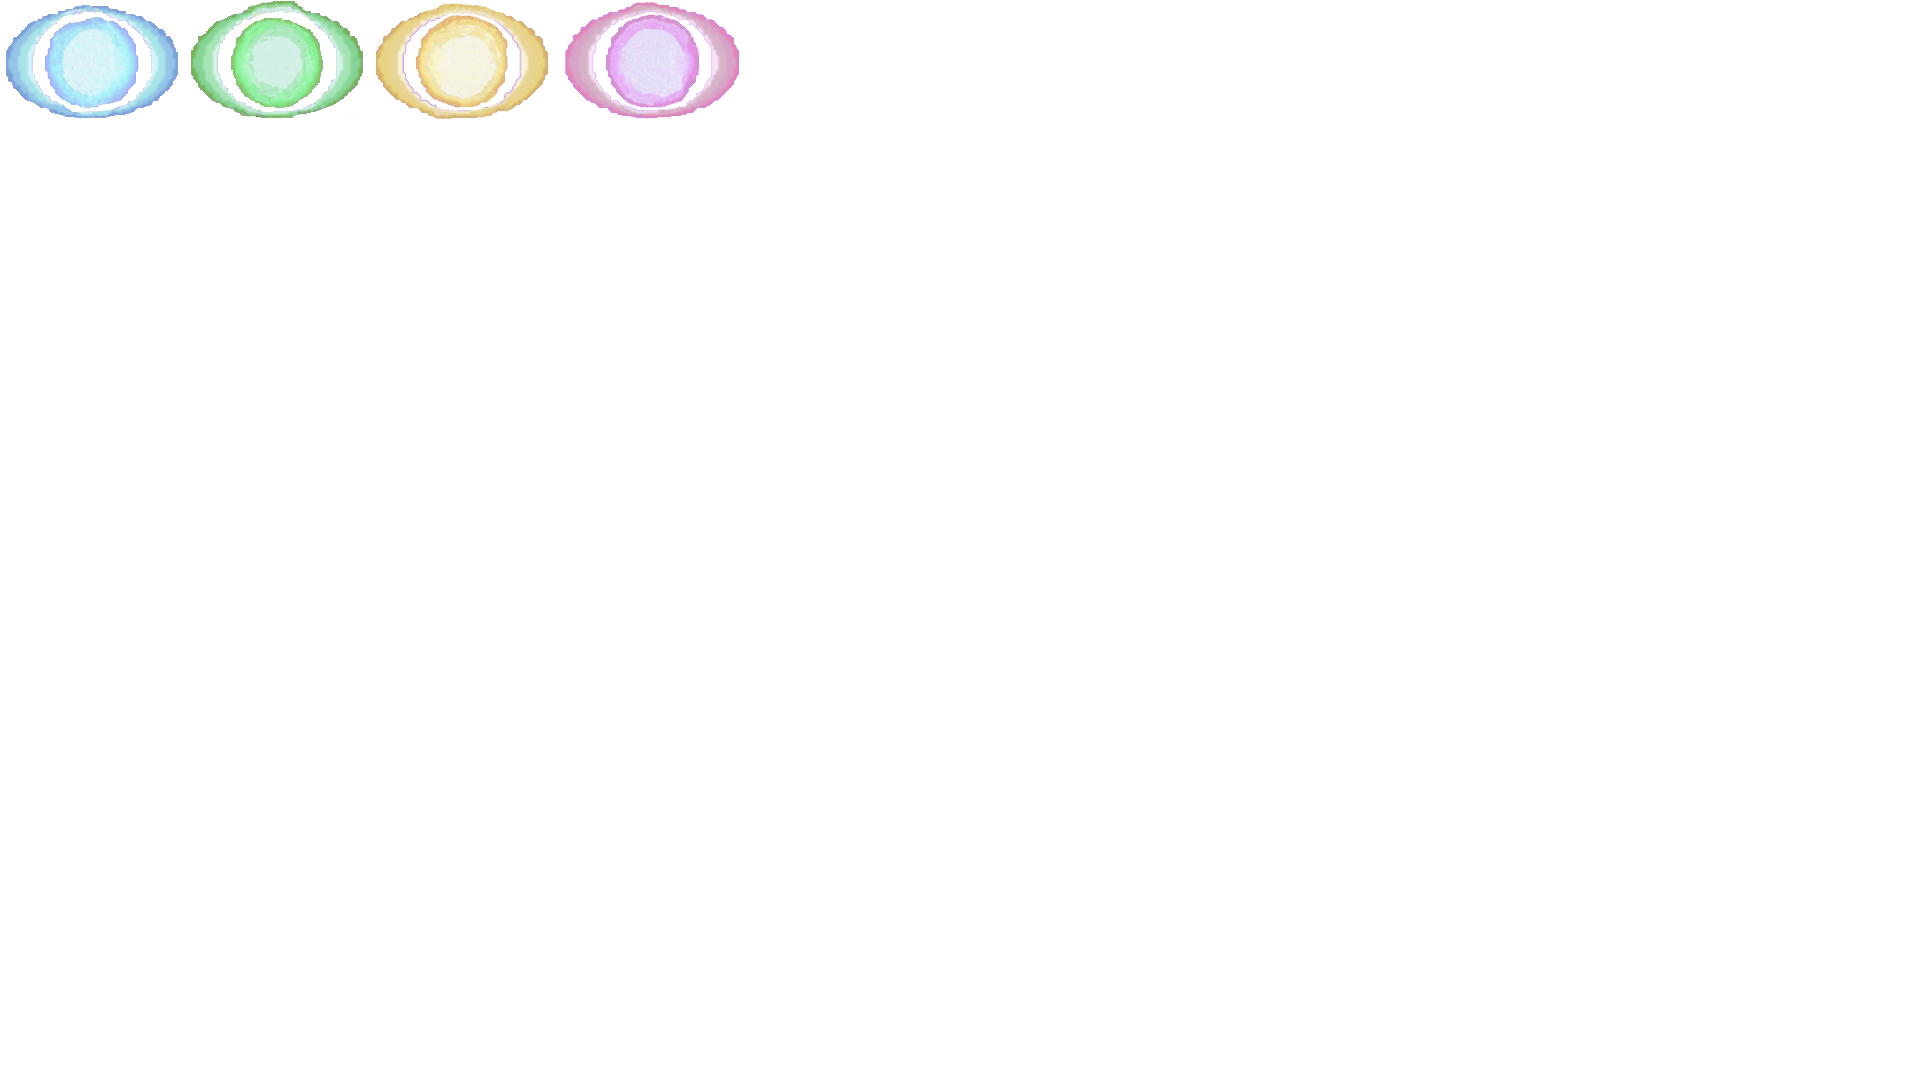
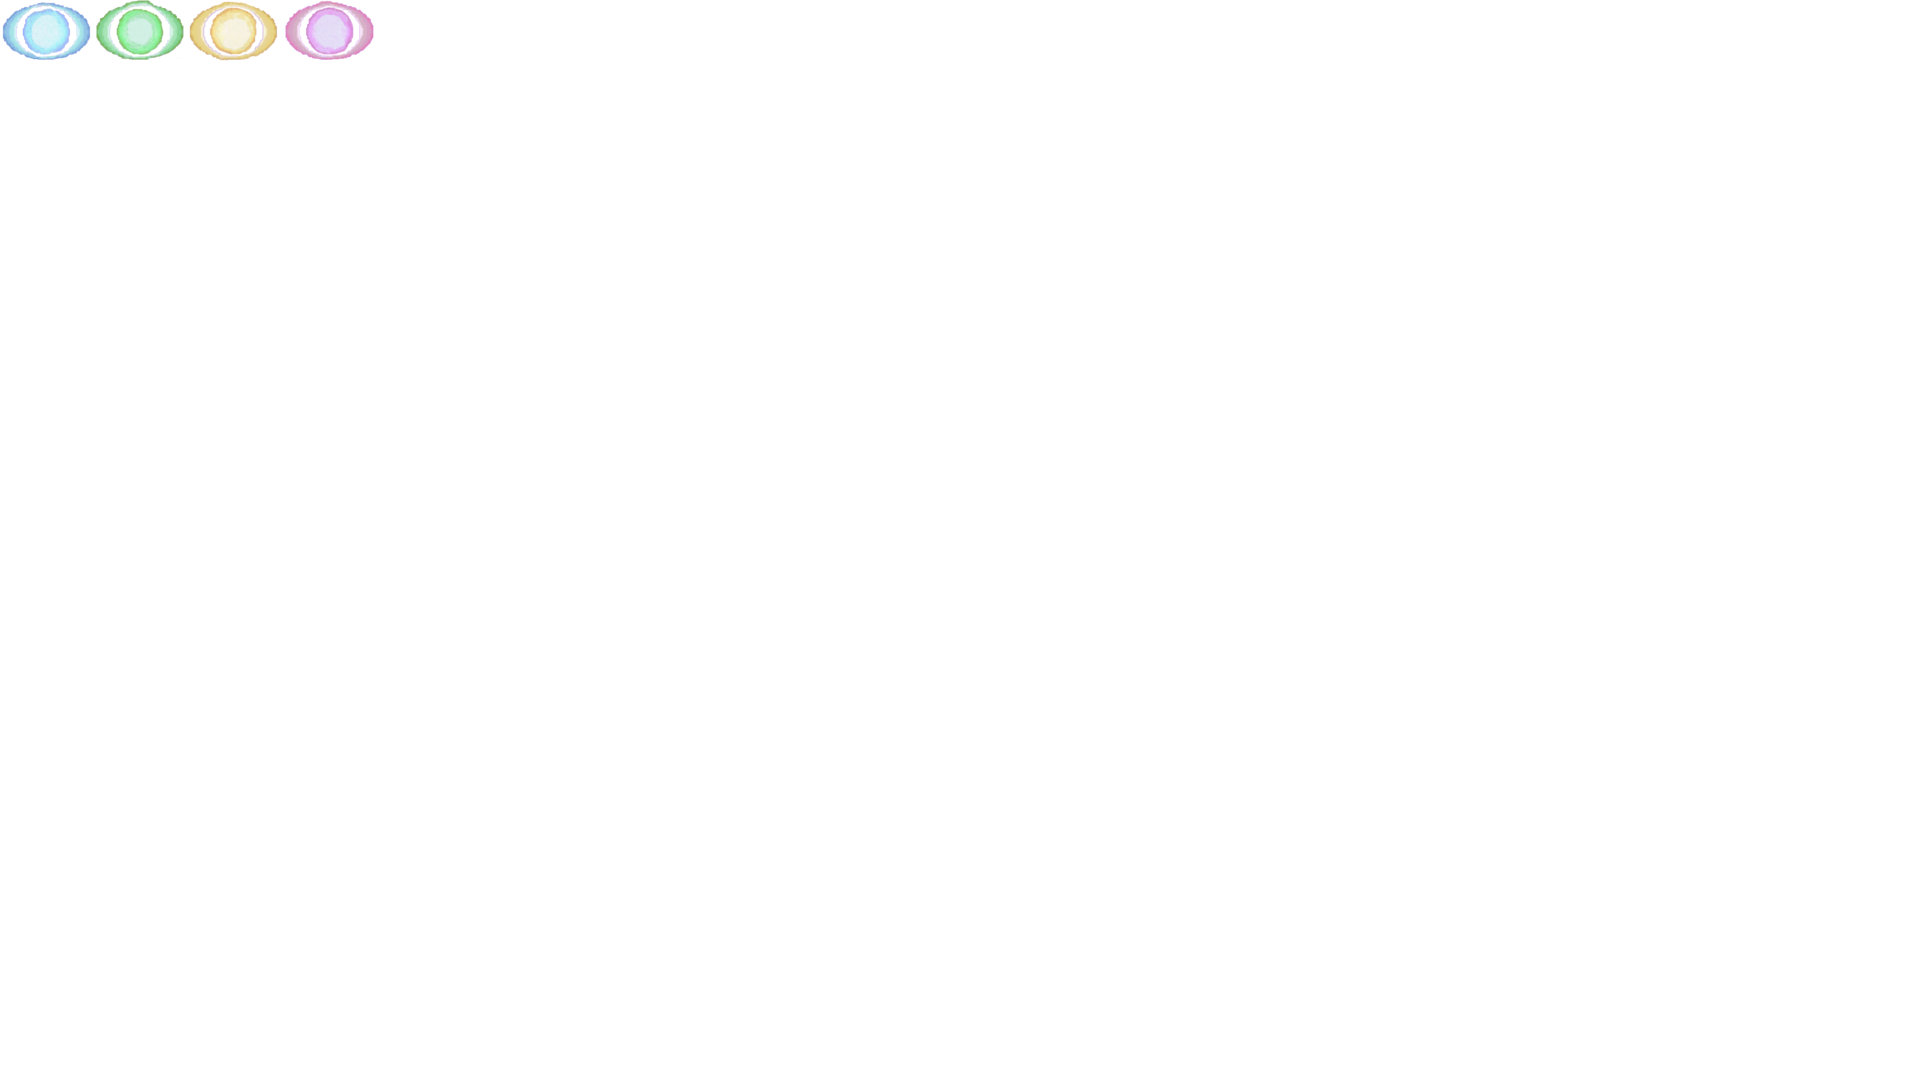
Testing resizeable shoots, added animation radom posibility

Changed region(s): [[0.0, 0.0, 0.4062, 0.1222]]

diff --git a/Space Harrier/ModuleParticles.cpp b/Space Harrier/ModuleParticles.cpp
@@ -18,17 +18,19 @@ ModuleParticles::~ModuleParticles()
 bool ModuleParticles::Start()
 {
 	LOG("Loading particles");
-	graphics = App->textures->Load("assets/particles.png");
+	graphics = App->textures->Load("assets/Shoots.png");
 
 
-	// TODO 2: Create a prototype for the laser particle
-	// audio: rtype/laser.wav
-	// coords: {232, 103, 16, 12}; {249, 103, 16, 12};
-	laser.anim.frames.push_back({ 232, 103, 16, 12 });
-	laser.anim.frames.push_back({ 249, 103, 16, 12 });
+	// Creating shoot particle
+	laser.anim.frames.push_back({ 1, 1, 91, 61 });
+	laser.anim.frames.push_back({ 95, 0, 91, 61 });
+	laser.anim.frames.push_back({ 188, 1, 91, 61 });
+	laser.anim.frames.push_back({ 284, 0, 91, 61 });
+	laser.anim.randFrame = true;
+	laser.anim.speed = 0.01f;
 	laser.efxIndex = App->audio->LoadFx("assets/laser.wav");
-	laser.speed = 10;
-	laser.collider = App->collision->AddCollider({-16,-12,16,12},LASERS,this);
+	laser.speed = 0.5f;
+	laser.collider = App->collision->AddCollider({-16,-12,91,61},LASERS,this);//Is generated out of screen
 
 	// TODO 12: Create a new "Explosion" particle 
 	// audio: rtype/explosion.wav
@@ -86,7 +88,7 @@ update_status ModuleParticles::Update()
 		Particle* p = *it;
 
 		p->Update();
-		App->renderer->Blit(graphics, p->position.x, p->position.y, &(p->anim.GetCurrentFrame()));
+		App->renderer->Blit(graphics, (int)p->position.x,(int) p->position.y,(int) p->position.z, &(p->anim.GetCurrentFrame()));
 		if (p->onlyOnce) {
 			if (p->anim.Finished()) {
 				p->to_delete = true;
@@ -103,14 +105,14 @@ update_status ModuleParticles::Update()
 	return UPDATE_CONTINUE;
 }
 
-void ModuleParticles::AddParticle(const Particle& particle, int x, int y)
+void ModuleParticles::AddParticle(const Particle& particle, float x, float y)
 {
 	// TODO 4: Fill in a method to create an instance of a prototype particle	
 	Particle* p = new Particle(particle);
 	p->position = { x,y };
 	if (p->collider != nullptr) {
-		p->collider->rect.x = x;
-		p->collider->rect.y = y;
+		p->collider->rect.x =(int) x;
+		p->collider->rect.y =(int) y;
 	}
 	active.push_back(p);
 }
@@ -148,12 +150,17 @@ Particle::~Particle()
 
 void Particle::Update()
 {
-	// TODO 5: This is the core of the particle logic
-	// draw and audio will be managed by ModuleParticle::Update()
-	// Note: Set to_delete to true is you want it deleted
-	position.x += speed;
+	if (position.z >= MAX_Z) {
+		to_delete = true;
+	}
+	position.z += speed;
 	if (collider != nullptr) {
-		collider->rect.x = position.x;
+		float temp1 = (anim.GetCurrentFrame().w / position.z);
+		float temp2 = (anim.GetCurrentFrame().h / position.z);
+		collider->rect.x +=(int) ((anim.GetCurrentFrame().w-temp1)/2);
+		collider->rect.y +=(int) ((anim.GetCurrentFrame().h - temp2)/2);
+		collider->rect.w = (int)temp1;
+		collider->rect.h = (int)temp2;
 	}
 }
 

diff --git a/Space Harrier/ModulePlayer.cpp b/Space Harrier/ModulePlayer.cpp
@@ -19,6 +19,7 @@ ModulePlayer::ModulePlayer(bool active) : Module(active)
 	run.frames.push_back({ 25, 4, 20, 47 });
 	run.frames.push_back({ 49, 2, 25, 49 });
 	run.frames.push_back({ 75, 3, 21, 47 });
+	run.speed = 0.1f;
 
 	center.frames.push_back({ 108,2,26,49 });
 
@@ -45,8 +46,9 @@ bool ModulePlayer::Start()
 	destroyed = false;
 	position.x = 150;
 	position.y = 120;
+	position.z = 0;
 	//Collider
-	collider = App->collision->AddCollider({ 150,120,32,14 }, PLAYER, this);
+	collider = App->collision->AddCollider({ 150,120,25,50 }, PLAYER, this);
 
 	return true;
 }
@@ -98,14 +100,16 @@ update_status ModulePlayer::Update()
 	if (App->input->GetKey(SDL_SCANCODE_SPACE) == KEY_DOWN)
 	{
 		// TODO 6: Shoot a laser using the particle system
-		App->particles->AddParticle(App->particles->laser, position.x, position.y);
+		float x =(float) (position.x + current_animation->GetCurrentFrame().w / 2) - (App->particles->laser.anim.GetCurrentFrame().w / 2);
+		float y =(float) (position.y + current_animation->GetCurrentFrame().h / 2) - (App->particles->laser.anim.GetCurrentFrame().h / 2);
+		App->particles->AddParticle(App->particles->laser, x, y);
 	}
 
 	// Draw everything --------------------------------------
 	if (destroyed == false) {
 		collider->rect.x = position.x;
 		collider->rect.y = position.y;
-		App->renderer->Blit(graphics, position.x, position.y, &(current_animation->GetCurrentFrame()));
+		App->renderer->Blit(graphics, position.x, position.y, position.z, &(current_animation->GetCurrentFrame()));
 	}
 
 	return UPDATE_CONTINUE;

diff --git a/Space Harrier/Animation.h b/Space Harrier/Animation.h
@@ -7,32 +7,54 @@ class Animation
 {
 public:
 	bool loop = true;
+	bool randFrame = false;
 	float speed = 1.0f;
 	vector<SDL_Rect> frames;
 
 private:
-	float current_frame = 0.0f;
+	int current_frame = 0;
 	int loops = 0;
+	float timer=0;
+	bool first = true;
 
 public:
 	Animation()
 	{}
 
-	Animation(const Animation& anim) : loop(anim.loop), speed(anim.speed), frames(anim.frames)
+	Animation(const Animation& anim) : loop(anim.loop), speed(anim.speed), frames(anim.frames),randFrame(anim.randFrame)
 	{}
 
 	SDL_Rect& GetCurrentFrame()
 	{
-		float last_frame = (float) frames.size();
+		if (first && randFrame) {
+			current_frame = RAND() % frames.size();
+			first = false;
+		}
 
-		current_frame += speed;
+		int last_frame = frames.size();
+
+		if (timer >= 1) {
+			if (randFrame) {
+				current_frame = RAND() % frames.size();
+			}
+			else
+			{
+				++current_frame;
+			}
+			timer = 0;
+		}
+		else
+		{
+			timer += speed;
+		}
+
 		if (current_frame >= last_frame)
 		{
-			current_frame = (loop) ? 0.0f : MAX(last_frame - 1.0f, 0.0f);
+			current_frame = (loop) ? 0 : MAX(last_frame - 1, 0);
 			loops++;
 		} 
 
-		return frames[(int)current_frame];
+		return frames[current_frame];
 	}
 
 	bool Finished() const
@@ -42,6 +64,6 @@ public:
 
 	void Reset()
 	{
-		current_frame = 0.0f;
+		current_frame = 0;
 	}
 };

diff --git a/Space Harrier/ModuleRender.cpp b/Space Harrier/ModuleRender.cpp
@@ -88,12 +88,13 @@ bool ModuleRender::CleanUp()
 }
 
 // Blit to screen
-bool ModuleRender::Blit(SDL_Texture* texture, int x, int y, SDL_Rect* section, float speed)
+bool ModuleRender::Blit(SDL_Texture* texture, int x, int y,int z, SDL_Rect* section, float speed)
 {
 	bool ret = true;
 	SDL_Rect rect;
 	rect.x = (int)(camera.x * speed) + x * SCREEN_SIZE;
 	rect.y = (int)(camera.y * speed) + y * SCREEN_SIZE;
+
 
 	if(section != NULL)
 	{
@@ -105,8 +106,20 @@ bool ModuleRender::Blit(SDL_Texture* texture, int x, int y, SDL_Rect* section, f
 		SDL_QueryTexture(texture, NULL, NULL, &rect.w, &rect.h);
 	}
 
-	rect.w *= SCREEN_SIZE;
-	rect.h *= SCREEN_SIZE;
+	if (z==0) {
+		z = 1;
+	}
+
+	rect.w *=SCREEN_SIZE;
+	rect.h *=SCREEN_SIZE;
+
+	int temp1 = rect.w / z;
+	int temp2 = rect.h / z;
+
+	rect.x += ((rect.w-temp1)/2);
+	rect.y += ((rect.h-temp2)/2);
+	rect.w = temp1;
+	rect.h = temp2;
 
 	if(SDL_RenderCopy(renderer, texture, section, &rect) != 0)
 	{

diff --git a/Space Harrier/ModuleParticles.h b/Space Harrier/ModuleParticles.h
@@ -15,11 +15,11 @@ struct Particle
 	// TODO 1: Fill in the structure with all the properties you need for each particle
 	bool to_delete = false;
 	bool firstSound=true;
-	iPoint position = { 0, 0 };
+	fPoint position = { 0, 0 , 1};
 	unsigned int efxIndex;
 	Animation anim;
-	bool onlyOnce = false;;
-	int speed;
+	bool onlyOnce = false;
+	float speed;
 
 	// TODO 11: Add an optional collider to each particle
 	Collider* collider;
@@ -44,7 +44,7 @@ public:
 	bool CleanUp();
 	void OnCollision(Collider* col,Collider* other);
 
-	void AddParticle(const Particle& particle, int x, int y); // feel free to expand this call
+	void AddParticle(const Particle& particle, float x, float y); // feel free to expand this call
 
 private:
 

diff --git a/Space Harrier/Globals.h b/Space Harrier/Globals.h
@@ -42,12 +42,23 @@ typedef unsigned int uint;
                               \
 	 }
 
+//Random 
+#ifdef _DEBUG
+#define RAND() getPseudoRand() 
+#else
+#define RAND() getRand()
+#endif
+
 // Configuration -----------
 #define SCREEN_SIZE 3
-#define SCREEN_WIDTH 384
+#define SCREEN_WIDTH 384//TODO revisar en algun momento por si se ocurre una mejor manera de manejarlo
 #define SCREEN_HEIGHT 240
 #define FULLSCREEN false
 #define VSYNC true
-#define TITLE "Super Awesome Game"
+#define TITLE "Space Harrier-Game"
+
+int getPseudoRand();
+int getRand();
+
 
 #endif //__GLOBALS_H__

diff --git a/Space Harrier/ModuleRender.h b/Space Harrier/ModuleRender.h
@@ -20,7 +20,7 @@ public:
 	update_status PostUpdate();
 	bool CleanUp();
 
-	bool Blit(SDL_Texture* texture, int x, int y, SDL_Rect* section, float speed = 1.0f);
+	bool Blit(SDL_Texture* texture, int x, int y,int z, SDL_Rect* section, float speed = 1.0f);
 	bool DrawQuad(const SDL_Rect& rect, Uint8 r, Uint8 g, Uint8 b, Uint8 a, bool use_camera = true);
 
 public:

diff --git a/Space Harrier/ModuleSceneIntro.cpp b/Space Harrier/ModuleSceneIntro.cpp
@@ -44,7 +44,7 @@ bool ModuleSceneIntro::CleanUp()
 // Update: draw background
 update_status ModuleSceneIntro::Update()
 {
-	App->renderer->Blit(background, 0, 0, NULL);
+	App->renderer->Blit(background, 0, 0, 0, NULL);
 
 	if(App->input->GetKey(SDL_SCANCODE_SPACE) == KEY_DOWN && App->fade->isFading() == false)
 	{

diff --git a/Space Harrier/ModuleSceneSpace.cpp b/Space Harrier/ModuleSceneSpace.cpp
@@ -53,7 +53,7 @@ update_status ModuleSceneSpace::Update()
 {
 
 	// Draw everything --------------------------------------
-	App->renderer->Blit(background, 0, 0, NULL);
+	App->renderer->Blit(background, 0, 0, 0, NULL);
 	
 	return UPDATE_CONTINUE;
 }

diff --git a/Space Harrier/Globals.cpp b/Space Harrier/Globals.cpp
@@ -1,0 +1,17 @@
+#include "Globals.h"
+#include <time.h>
+
+bool seeded = false;
+
+int getPseudoRand() {
+	return rand();
+}
+int getRand() {
+
+	if (!seeded) {
+		srand((unsigned int)time(nullptr));
+		seeded = true;
+	}
+
+	return rand();
+}

diff --git a/Space Harrier/Module.h b/Space Harrier/Module.h
@@ -1,6 +1,8 @@
 #ifndef __MODULE_H__
 #define __MODULE_H__
 
+#define MAX_Z 25
+
 class Application;
 struct Collider;
 
